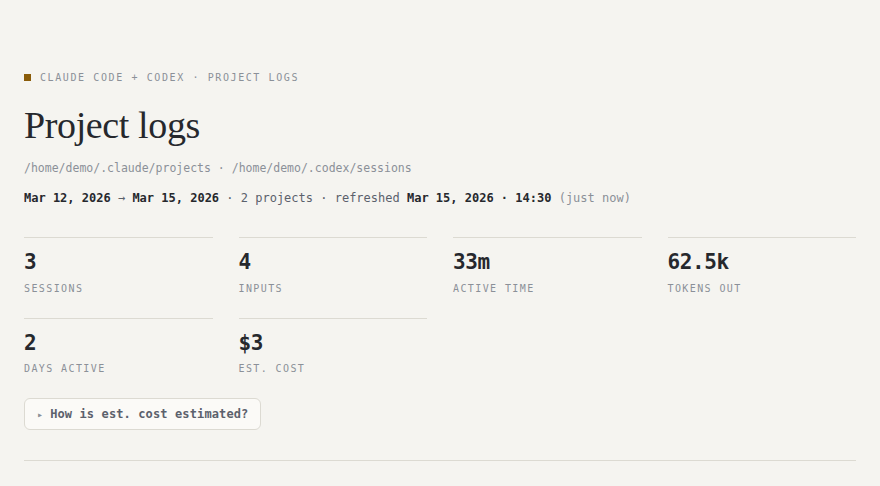
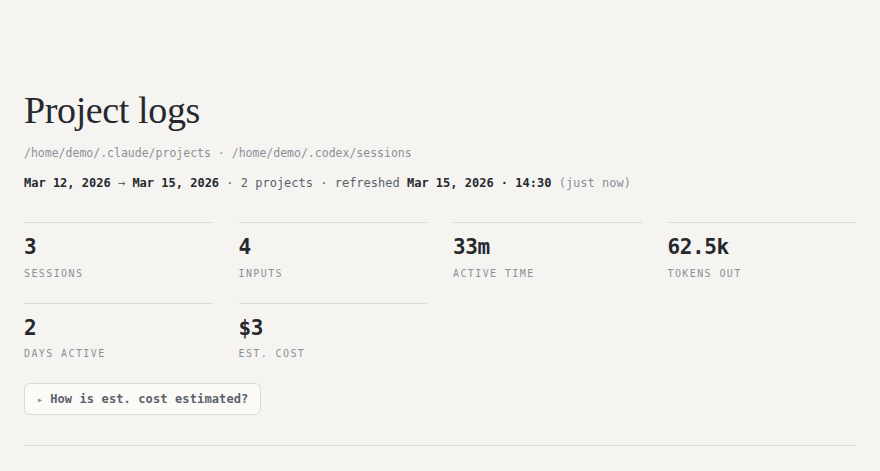
Remove redundant hero eyebrow
Assisted-by: Codex

diff --git a/generate_site.py b/generate_site.py
@@ -521,12 +521,6 @@ def _group_codex_timelines(timelines):
     return grouped
 
 
-def _eyebrow(tools):
-    """Human label for a set of tools, e.g. 'Claude Code + Codex'."""
-    return " + ".join("Claude Code" if t == "claude" else t.capitalize()
-                      for t in tools) or "Claude Code"
-
-
 # --------------------------------------------------------------- rendering -- #
 # Design language: two voices on a time spine. Everything the human typed is
 # serif with a session-colored square marker; machine activity is mono inside
@@ -650,9 +644,6 @@ body.has-right-rail{padding-right:56px}
 
 /* ---- hero ---- */
 header.hero{padding:46px 0 30px;border-bottom:1px solid var(--line)}
-.eyebrow{font-size:10px;letter-spacing:.16em;text-transform:uppercase;color:var(--faint)}
-.eyebrow::before{content:"";display:inline-block;width:7px;height:7px;
-  background:var(--human);margin-right:9px}
 h1{font-family:var(--serif);font-size:38px;font-weight:500;letter-spacing:-.01em;
   margin:12px 0 6px}
 .path{font-size:11.5px;color:var(--faint);word-break:break-all}
@@ -1523,7 +1514,6 @@ def render(tl, home=None, refreshed_at=None):
         title=esc(tl["project_name"]),
         css=CSS, js=JS + REFRESH_JS,
         body_class=body_class,
-        eyebrow=esc(_eyebrow(_session_tools(tl["sessions"]))),
         project=esc(tl["project_name"]),
         path=esc(tl["project_path"]),
         range=range_html,
@@ -1582,7 +1572,6 @@ INDEX_PAGE = """<!doctype html><html lang="en"><head>
 <style>{css}</style></head><body>
 <div class="wrap">
 <header class="hero">
-  <div class="eyebrow">{eyebrow} &middot; project logs</div>
   <h1>Project logs</h1>
   <div class="path">{root}</div>
   <div class="range">{range}</div>
@@ -1671,14 +1660,11 @@ def render_index(entries, refreshed_at=None, source_label=None):
             f'<div class="strip">{"".join(bars)}</div>'
             f'<div class="pstats">{stats}</div></a>')
 
-    all_tools = _session_tools(x for _, tl in entries for x in tl["sessions"])
-    label = _eyebrow(all_tools)
     return INDEX_PAGE.format(
         generator_meta=GENERATOR_META,
         favicon=favicon_link(),
         provenance=PAGE_PROVENANCE,
         css=CSS + INDEX_CSS,
-        eyebrow=esc(label),
         root=esc(source_label or "Claude Code and Codex data"),
         range=(f'<b>{esc(fmt_date(gfirst))}</b> &rarr; <b>{esc(fmt_date(glast))}</b>'
                f' &middot; {len(entries)} projects'
@@ -1703,7 +1689,6 @@ PAGE = """<!doctype html><html lang="en"><head>
 {topbar}
 <div class="wrap">
 <header class="hero">
-  <div class="eyebrow">{eyebrow} &middot; project log</div>
   <h1>{project}</h1>
   <div class="path">{path}</div>
   <div class="range">{range}</div>
